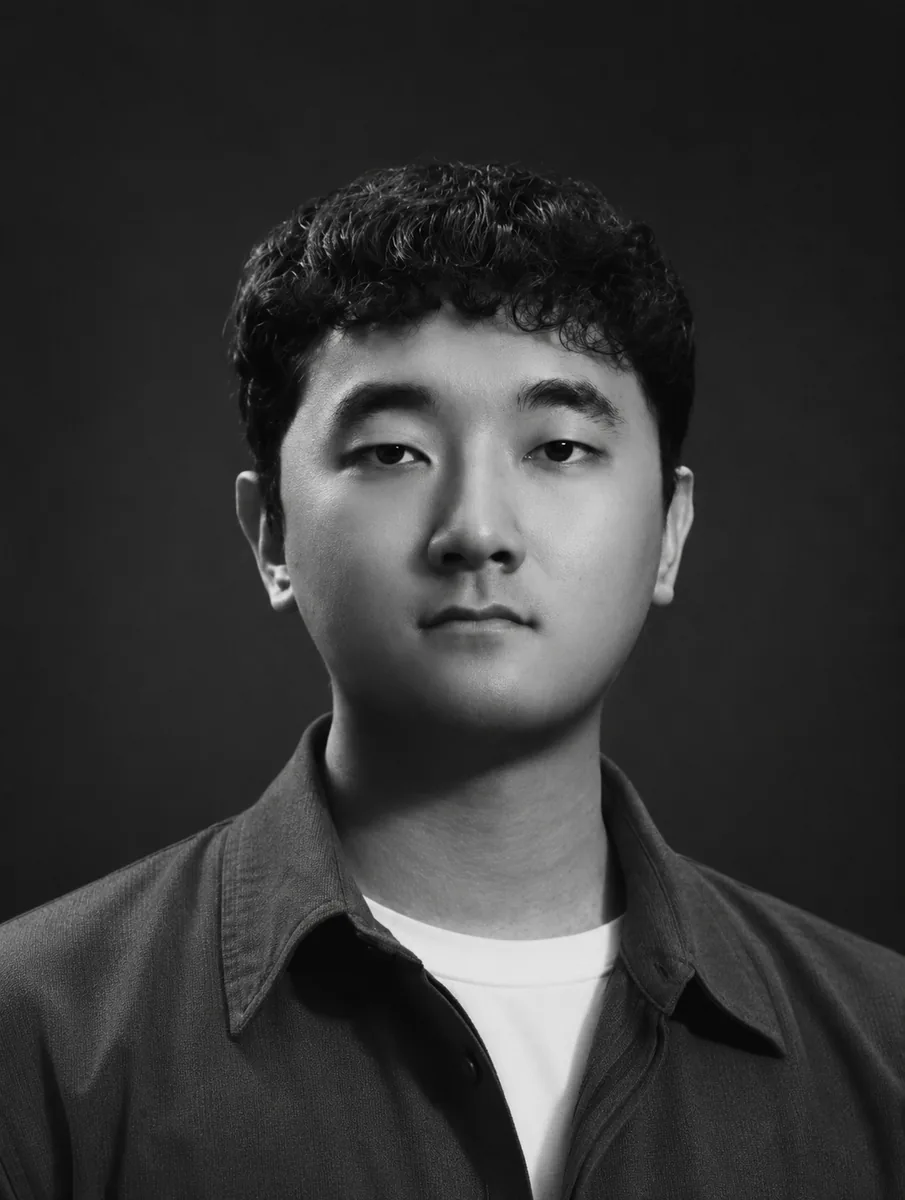
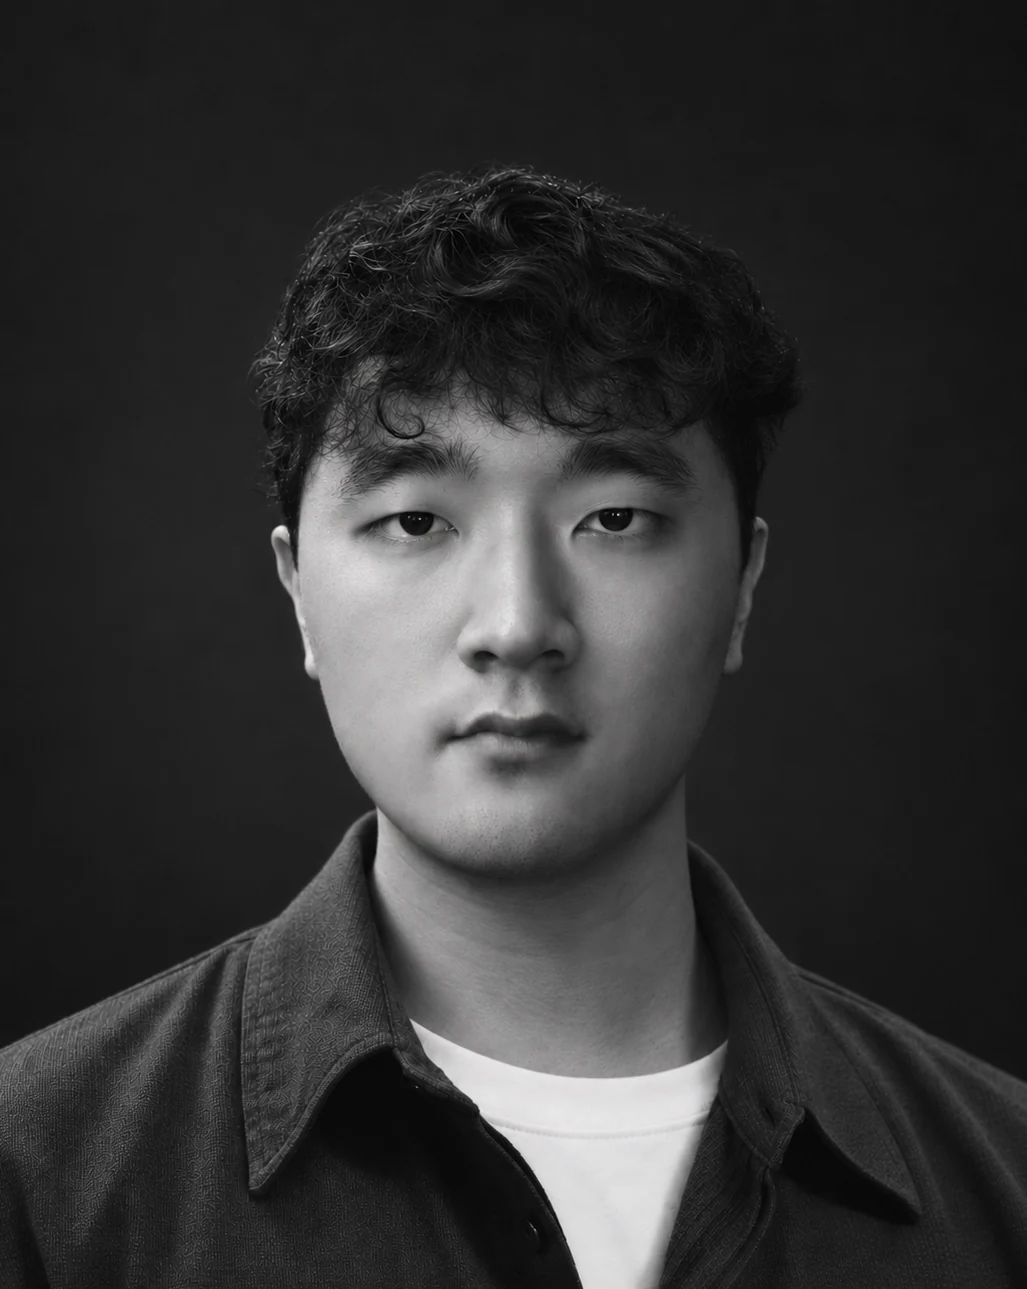
Update and reposition statement portrait

Changed region(s): [[0.0, 0.1233, 1.0, 1.0], [0.0619, 0.925, 0.0928, 0.9867], [0.9591, 0.8633, 0.9901, 0.8942]]

diff --git a/src/style.css b/src/style.css
@@ -29,3 +29,7 @@ html,body,#root,button,input,textarea,h1,h2,h3,h4,h5,h6,p,span,em,i,b,strong,blo
 
 /* Scroll progress supplies the easing; CSS lag would cause flashes and ghosting. */
 .scroll-typography p{transition:none}
+
+/* Give the updated statement portrait a little more breathing room above. */
+.statement-photo{transform:translateY(70px)}
+@media(max-width:700px){.statement-photo{transform:translateY(32px)}}
